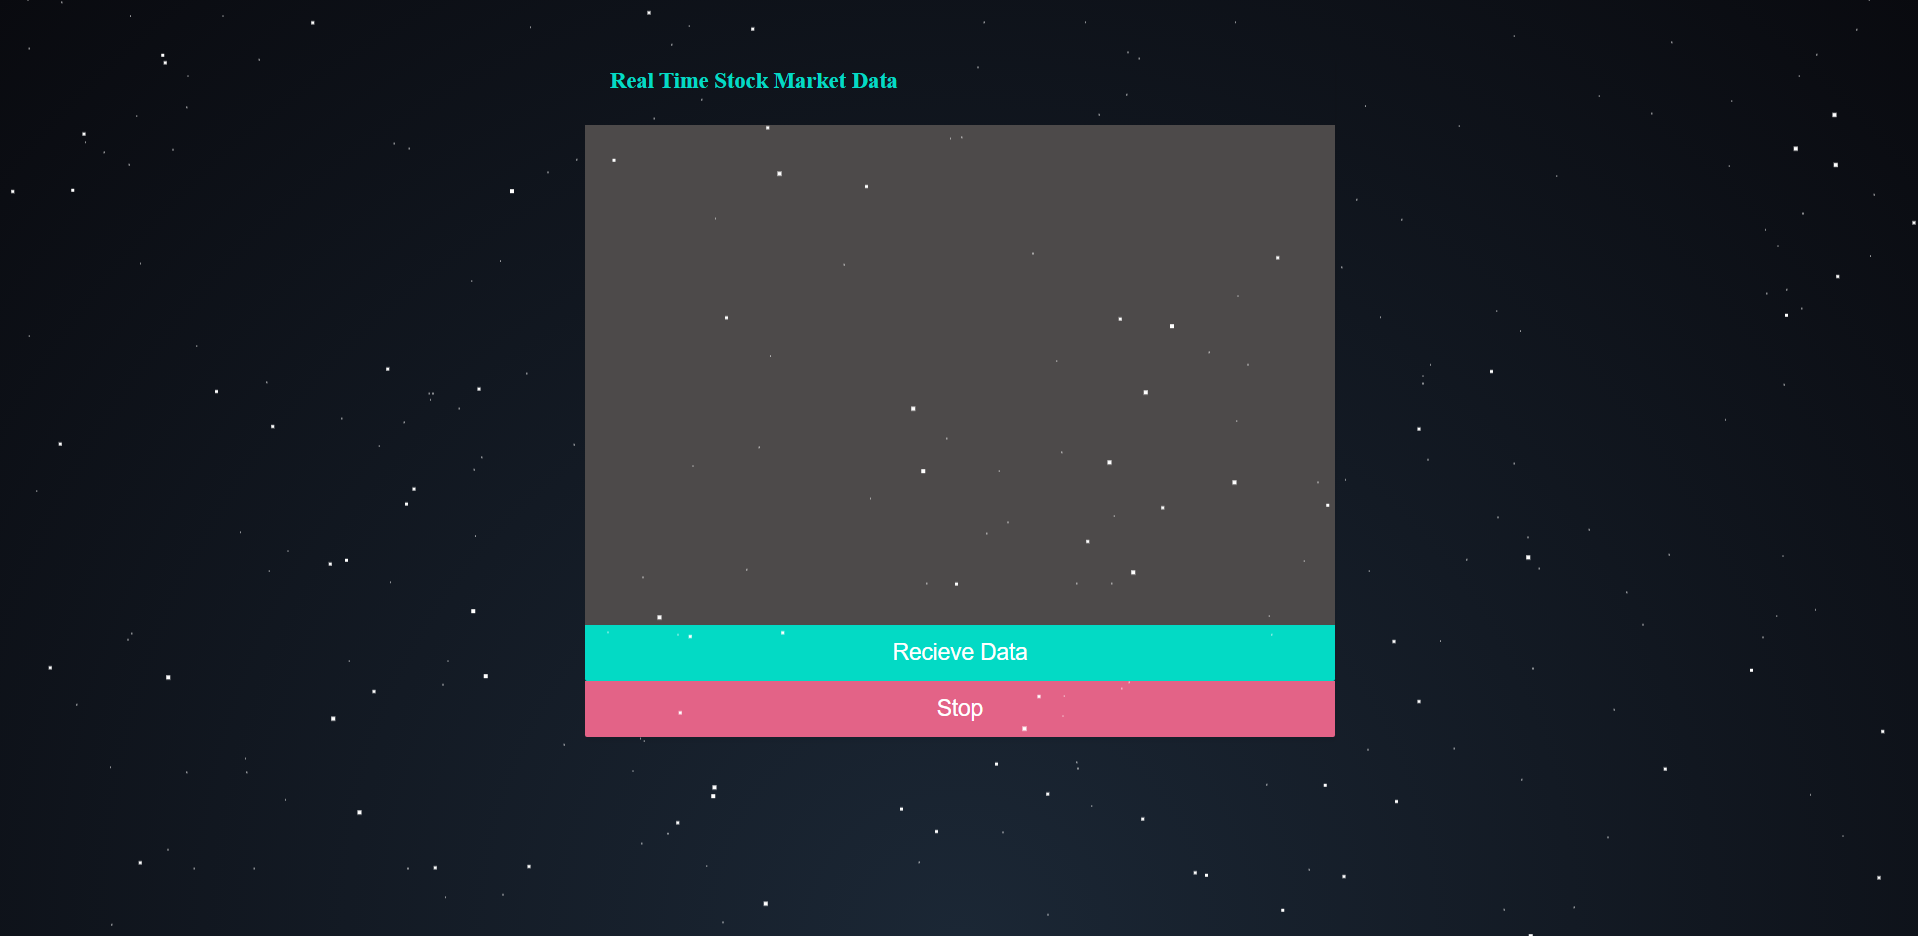
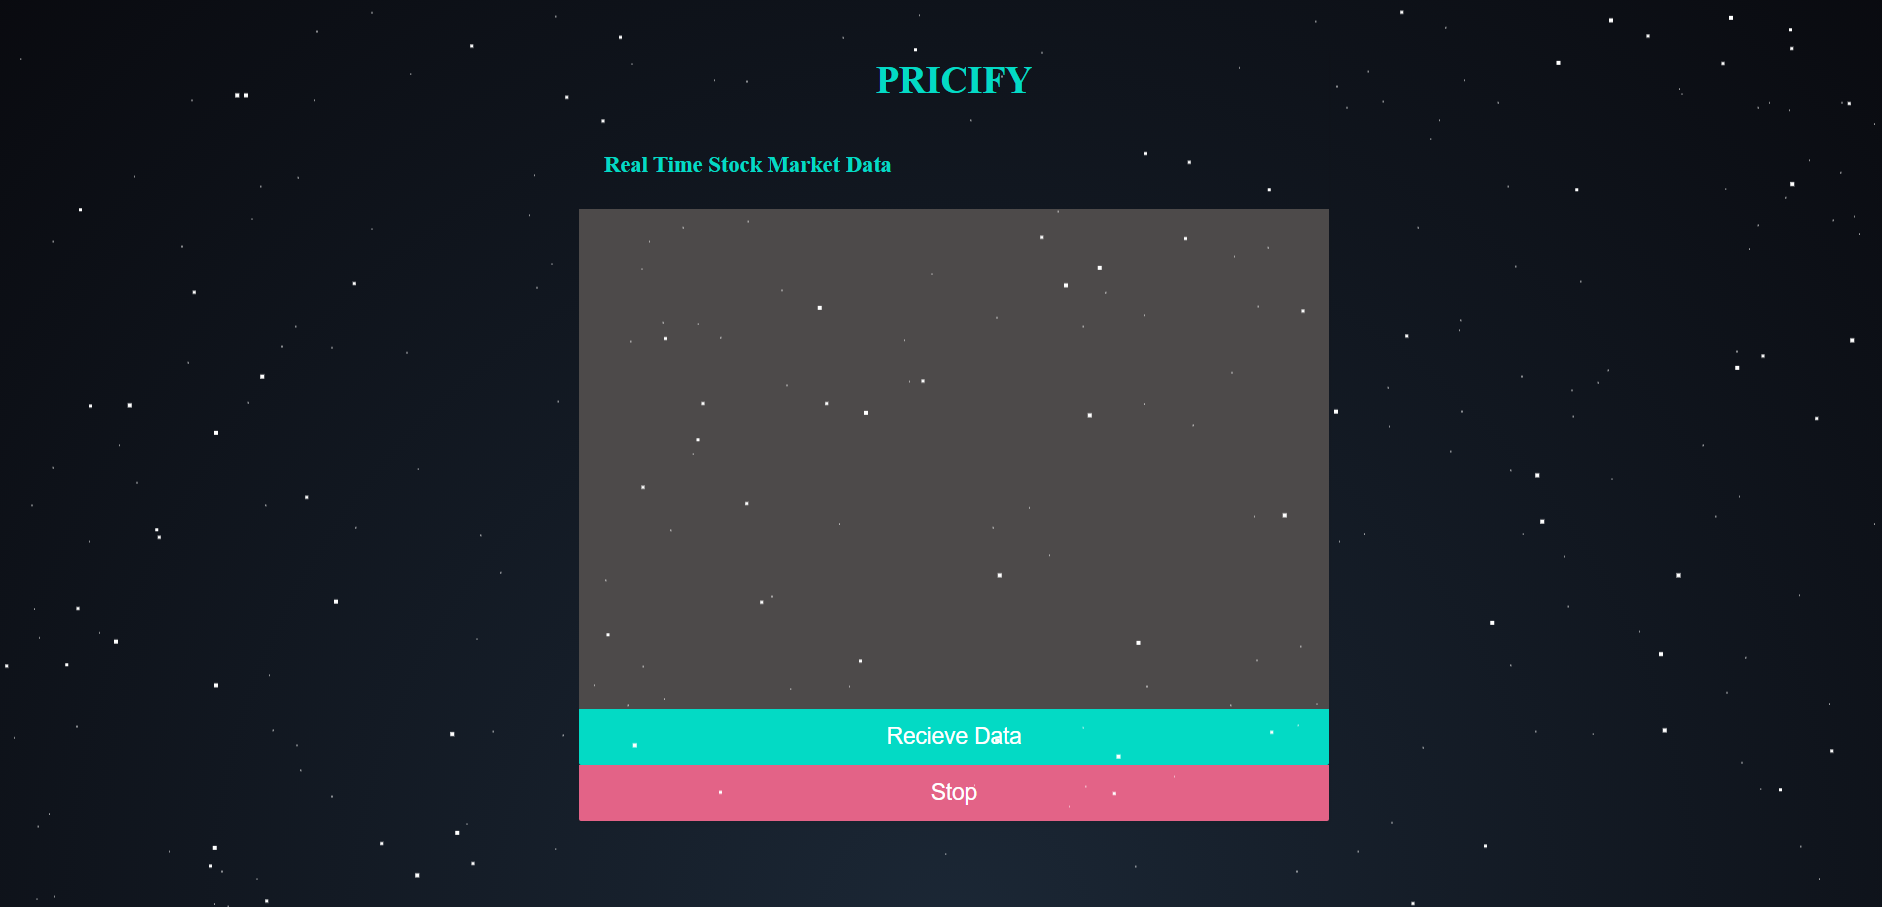
final changes

Changed region(s): [[0.2774, 0.0617, 0.7088, 0.9261]]

diff --git a/public/index.html b/public/index.html
@@ -7,13 +7,14 @@
     <div id='stars3'></div>
     <head>
         <meta charset="utf-8">
-        <title>WebScockets 101</title>
+        <title>Pricify</title>
         <script src="https://cdnjs.cloudflare.com/ajax/libs/socket.io/1.7.3/socket.io.js"></script>
         <link href="/styles.css" rel="stylesheet" />
     </head>
     <body>
         
         <div id="stock-chat">
+            <h1>PRICIFY</h1>
             <h2>Real Time Stock Market Data</h2>
             <div id="chat-window">
                 <div id="output"></div>

diff --git a/public/chat.js b/public/chat.js
@@ -27,6 +27,6 @@ btn1.addEventListener('click', function(){
 
 // Listen for events
 socket.on('chat', function(data){
-    output.innerHTML += '<p><strong>' + data.name + ': </strong>' + data.pri + '</p>';
+    output.innerHTML += '<p><strong>' + data.name + ': </strong>' + data.pri +'</p>';
     chat.scrollTop = chat.scrollHeight;
 });

diff --git a/public/styles.css b/public/styles.css
@@ -2,6 +2,12 @@ body{
     font-family: 'Nunito';
 }
 
+h1{
+    font-size: 30px;
+    padding: 10px 20px;
+    color: #03dac5;
+    text-align: center;
+}
 h2{
     font-size: 18px;
     padding: 10px 20px;
